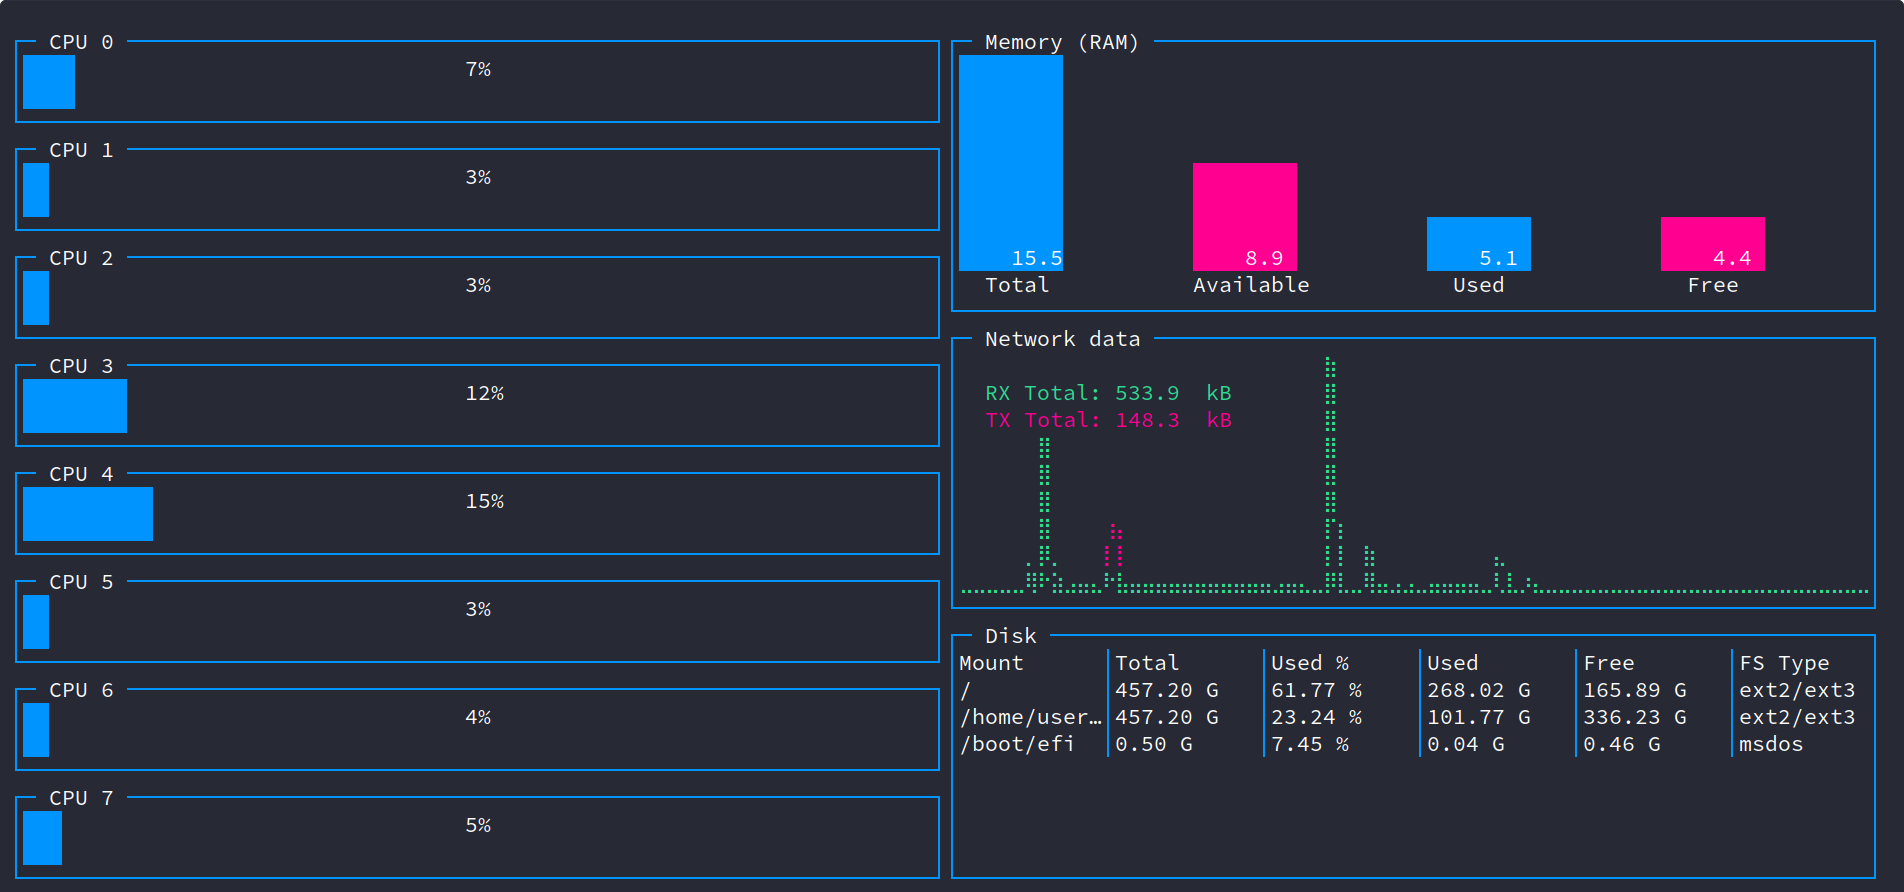
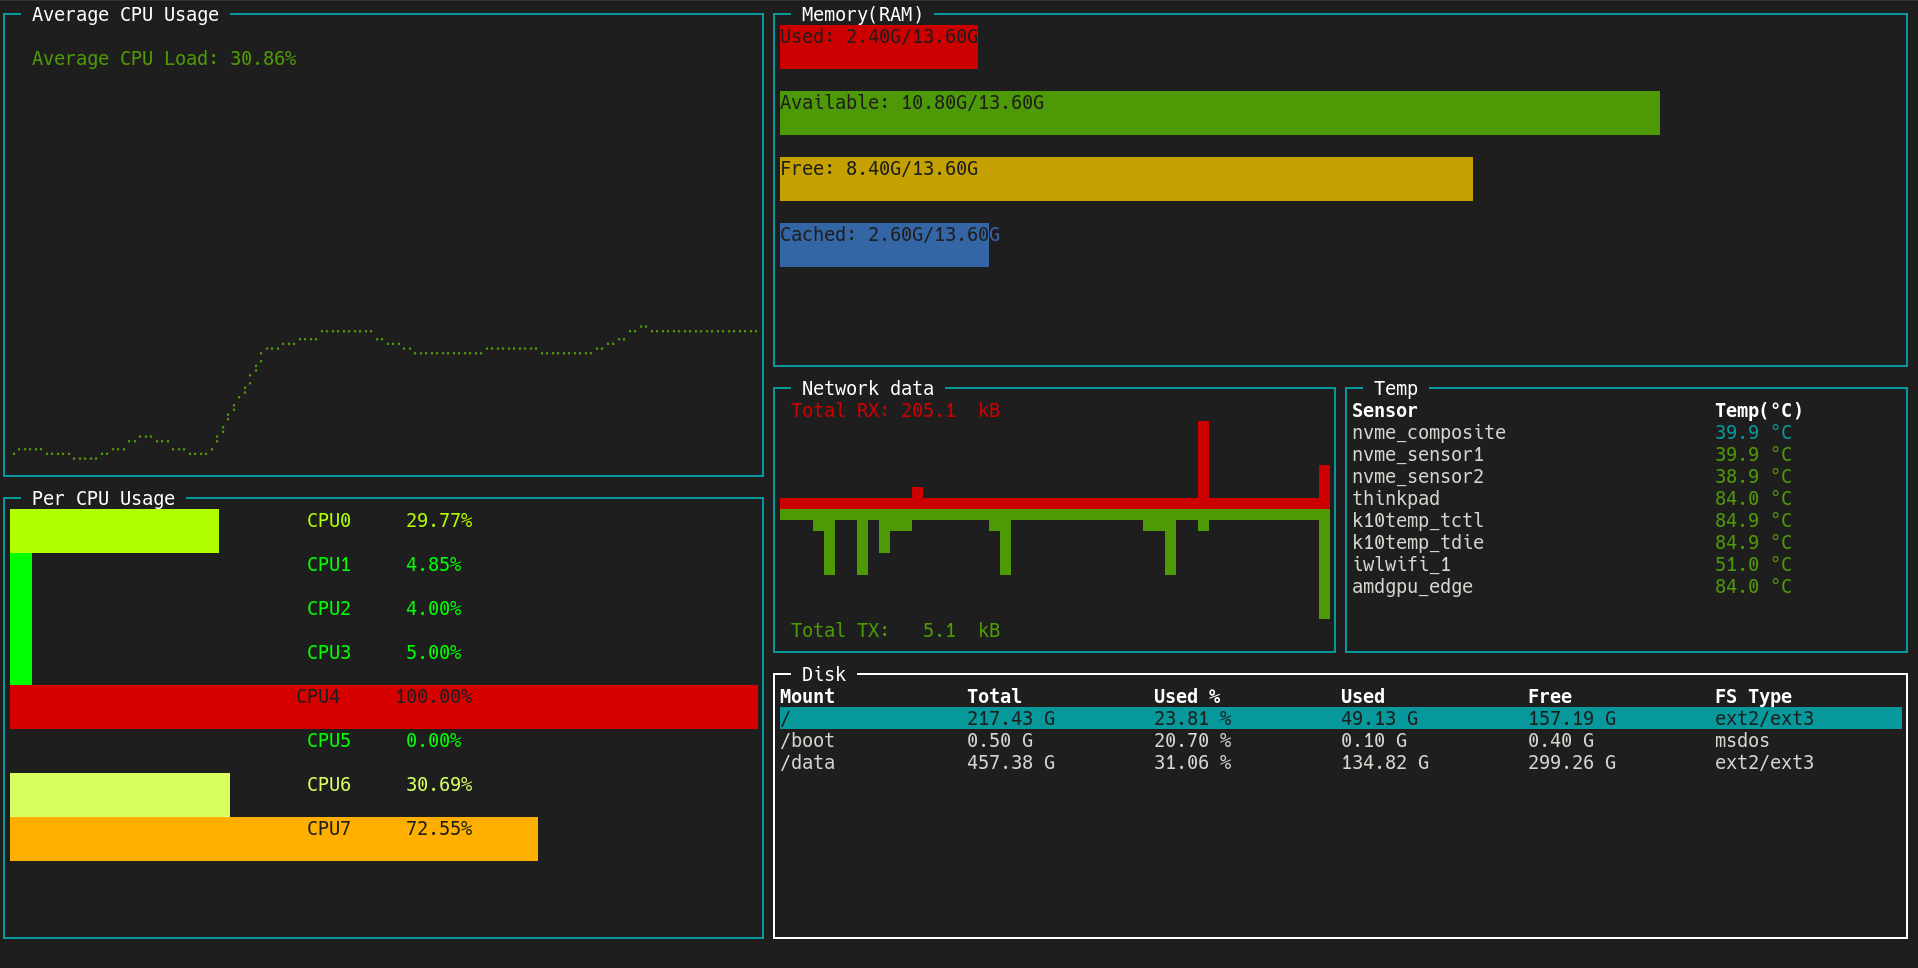
Reverse sparkline, replace grofer.png

diff --git a/src/display/general/init.go b/src/display/general/init.go
@@ -197,6 +197,7 @@ func (page *MainPage) initNetworkChartWidget() {
 	page.NetworkChart.Sparklines[0].LineColor = ui.ColorRed
 	page.NetworkChart.Sparklines[1].TitleStyle.Fg = ui.ColorGreen
 	page.NetworkChart.Sparklines[1].LineColor = ui.ColorGreen
+	page.NetworkChart.Sparklines[1].Reverse = true
 }
 
 func (page *MainPage) initCpuGaugeWidget(numCores int) {

diff --git a/src/utils/sparkline.go b/src/utils/sparkline.go
@@ -101,7 +101,7 @@ func (s *SparklineGroup) Draw(buf *ui.Buffer) {
 				if sl.Reverse {
 					sparkChar = ui.IRREGULAR_BLOCKS[3]
 				} else {
-					sparkChar = ui.BARS[1]
+					sparkChar = ui.IRREGULAR_BLOCKS[12]
 				}
 				buf.SetCell(
 					ui.NewCell(sparkChar, ui.NewStyle(sl.LineColor)),
